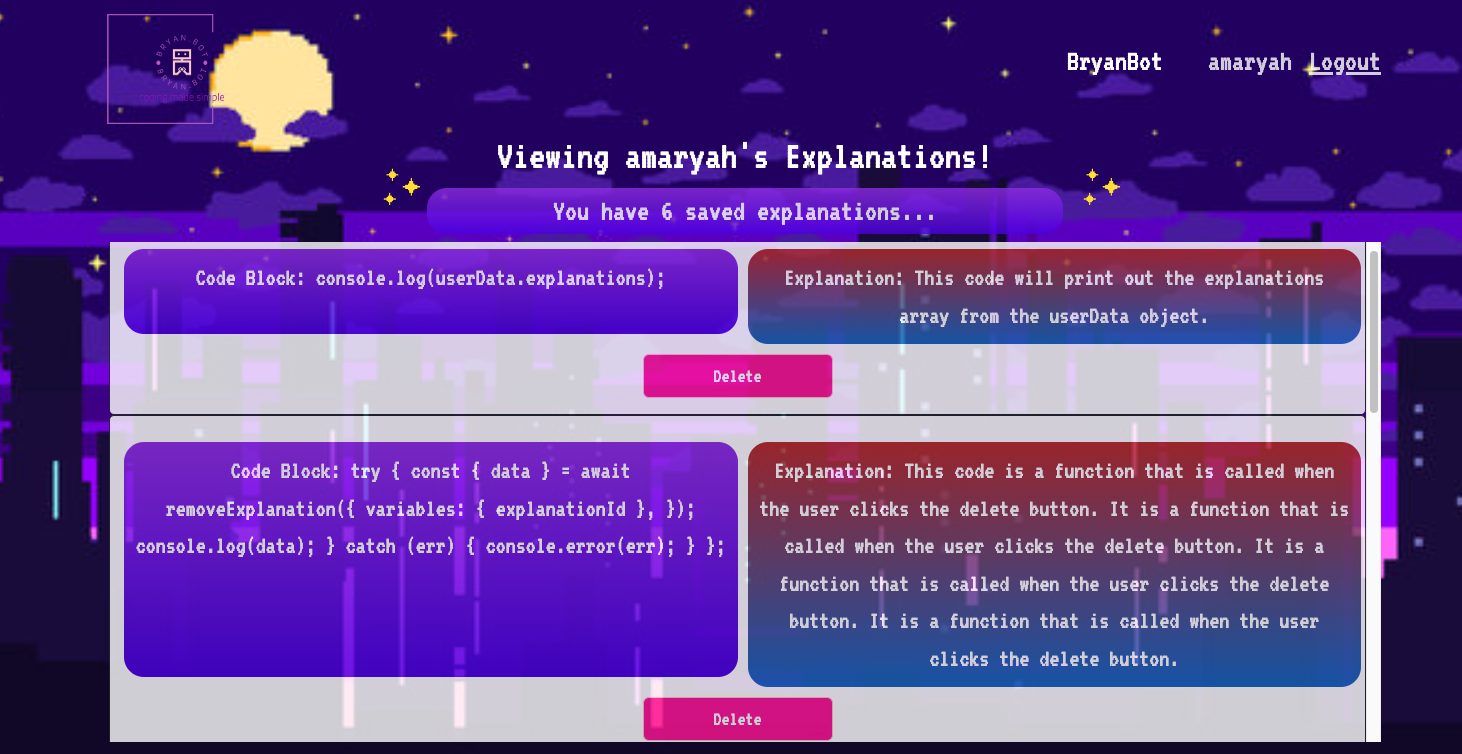
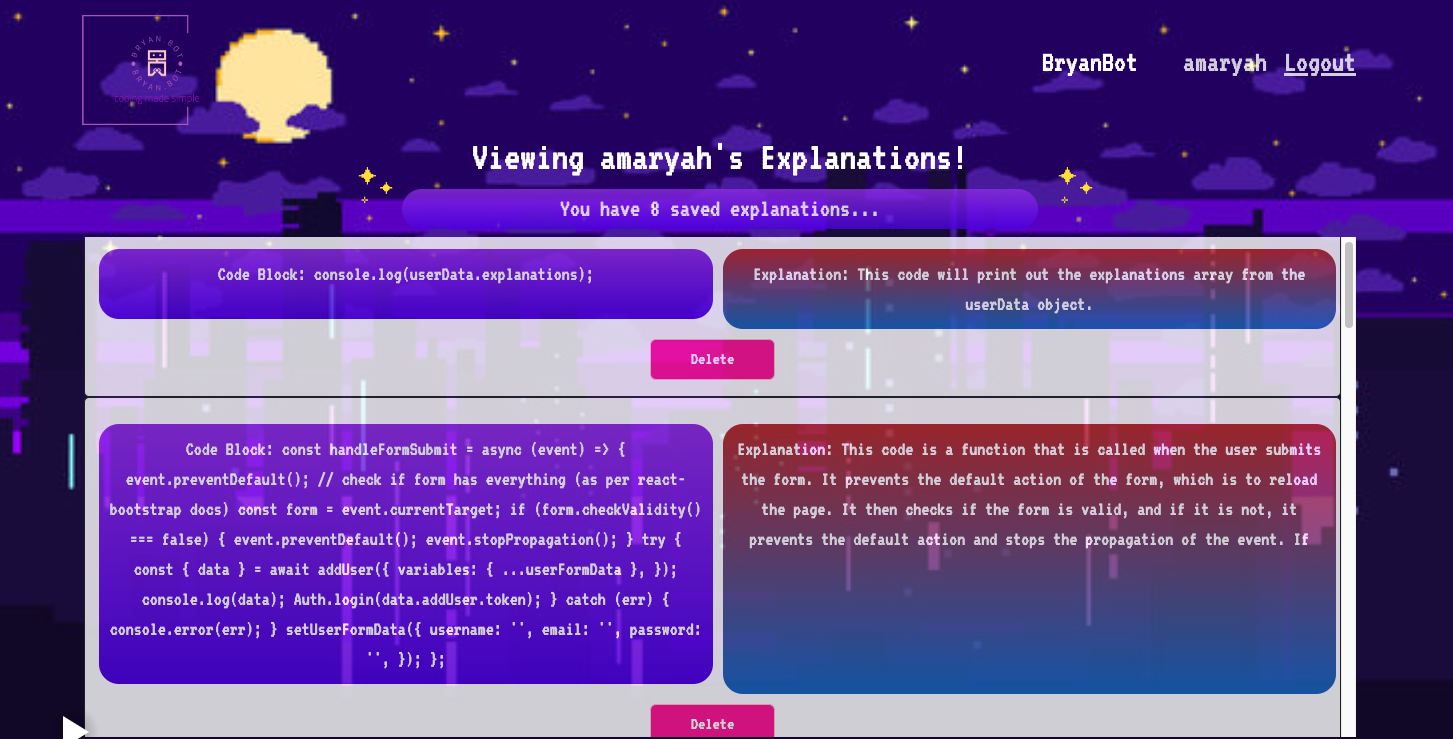
updated README screenshots

diff --git a/client/src/pages/Profile.js b/client/src/pages/Profile.js
@@ -25,7 +25,7 @@ const styles = {
     marginLeft: "auto",
     marginRight: "auto",
     flexWrap: "wrap",
-    fontSize: '40px',
+    fontSize: '30px',
     fontFamily: "'VT323', monospace",
   },
   header: {
@@ -40,7 +40,7 @@ const styles = {
     marginLeft: "auto",
     marginRight: "auto",
     flexWrap: "wrap",
-    fontSize: '30px',
+    fontSize: '25px',
     fontFamily: "'VT323', monospace",
   },
   body: {
@@ -59,7 +59,7 @@ const styles = {
     borderRadius: "20px",
     width: "50%",
     flexWrap: "wrap",
-    fontSize: '25px',
+    fontSize: '20px',
     fontFamily: "'VT323', monospace",
   },
   response: {
@@ -72,7 +72,7 @@ const styles = {
     borderRadius: "20px",
     width: "50%",
     flexWrap: "wrap",
-    fontSize: '25px',
+    fontSize: '20px',
     fontFamily: "'VT323', monospace",
   },
   button: {
@@ -84,9 +84,9 @@ const styles = {
     marginRight: 'auto',
     marginTop: '10px',
     display: 'block',
-    paddingLeft: '70px',
-    paddingRight: '70px',
-    fontSize: '20px'
+    paddingLeft: '40px',
+    paddingRight: '40px',
+    fontSize: '18px'
   },
 
   stars1: {

diff --git a/client/src/pages/Home.js b/client/src/pages/Home.js
@@ -17,7 +17,7 @@ const styles = {
     background: "linear-gradient(#8E2DE2, #4A00E0)",
     fontFamily: "Arial",
     textAlign: "center",
-    opacity: "0.6",
+    opacity: "1",
     marginTop: "100px",
     padding: "150px",
     borderRadius: "20px",
@@ -32,7 +32,7 @@ const styles = {
     background: "linear-gradient(#b92b27, #1565C0)",
     fontFamily: "Arial",
     textAlign: "center",
-    opacity: "0.6",
+    opacity: "1",
     marginTop: "100px",
     padding: "150px",
     borderRadius: "20px",
